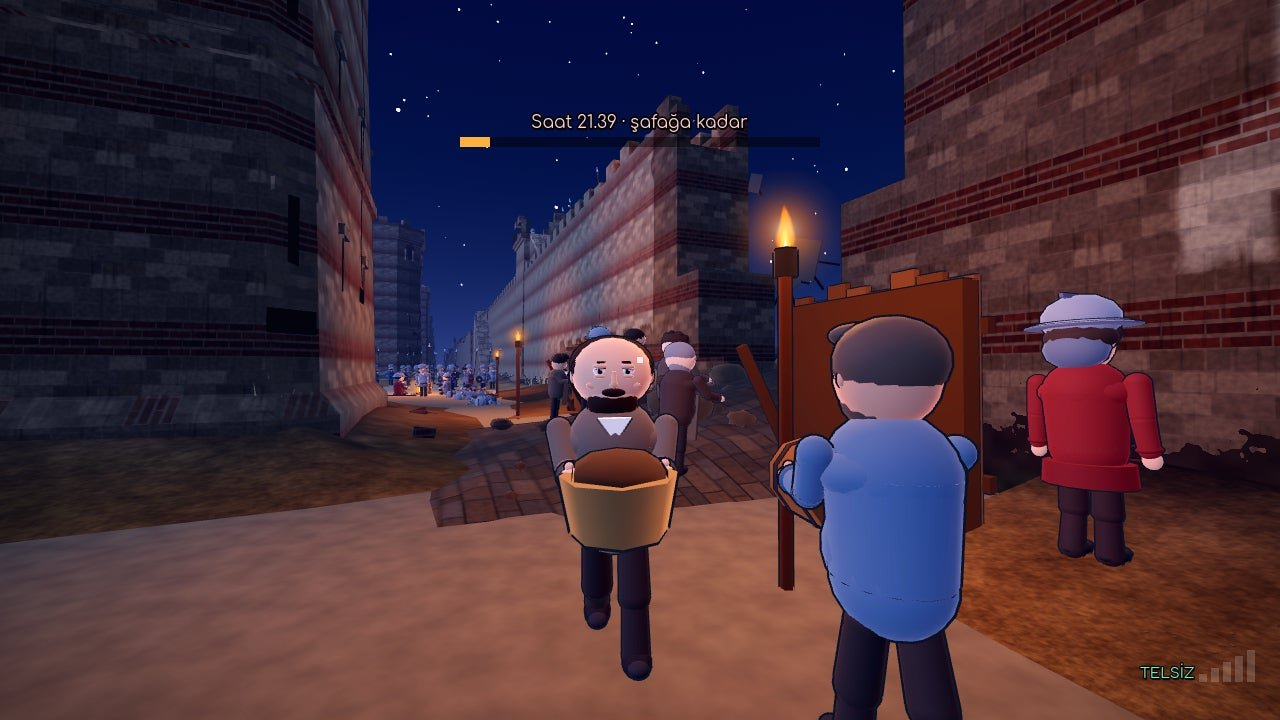
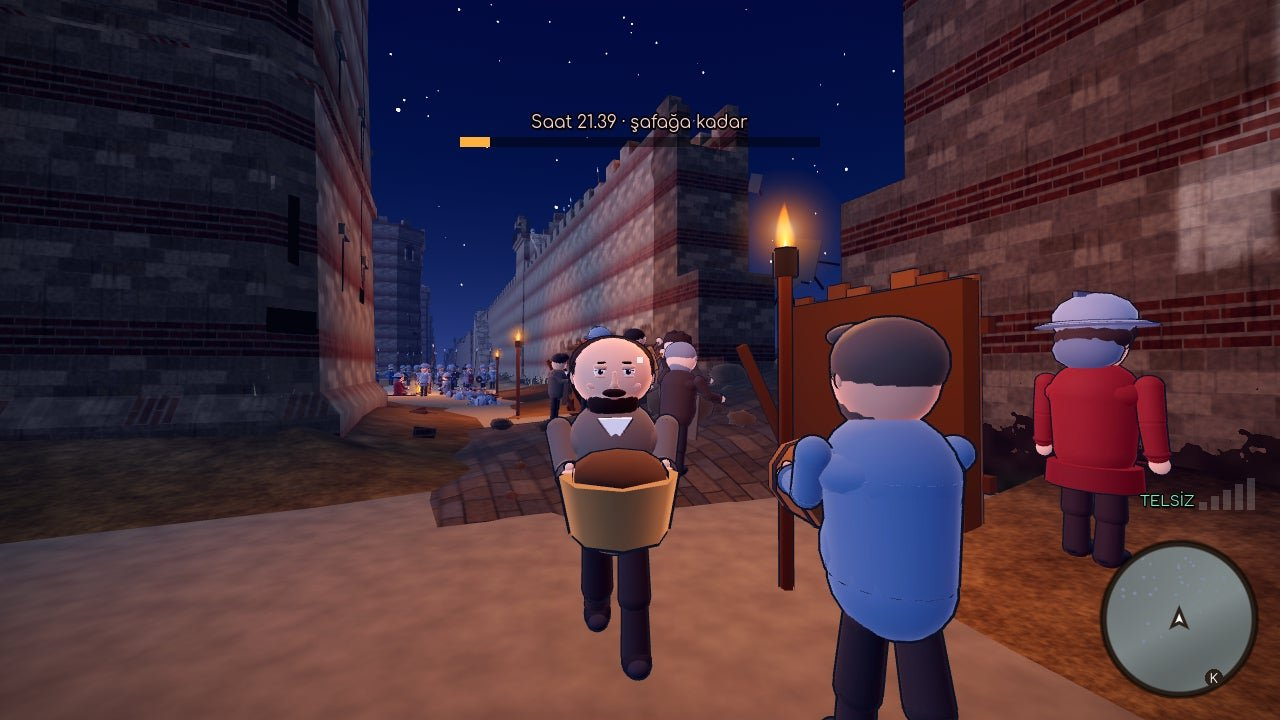
PİLOT-20: 20o kare çiftleri (tam boy; --tamboy diyalog/oynanış karesi seçeneği), rapor taslağı
Claude-Session: https://claude.ai/code/session_01RAjzxN1v1TMsaaMe97eDfD

diff --git a/docs/_kanit_ist2_pilot20/rapor.md b/docs/_kanit_ist2_pilot20/rapor.md
@@ -1,0 +1,53 @@
+# PİLOT-20 — Bölüm 20 ve 20o yeni İstanbul surunda (Mesoteikhion kesimi): doğrulama raporu
+
+> Dal `wip/ist2-pilot-20`. Taban: önceki oturumun kanıtsız kaydı `9f32c394`. Bu oturum: kur, koş, bul, düzelt, kanıtla.
+> Sur görünüşü dosyalarına (`surlar*.gd`, `sur_oturtma_ag.gd`, `sur_gorunus.gd`, `sur_zemin.gd`, `sur_doku.gd`, `sur_kule.gd`,
+> `gorsel_dil.gd`, `ordugah*`) ve `sur_sozlesme_donmus.json`'a dokunulmadı. Denge, hasar, sayaç, replik metni, ses: değişmedi.
+> Ham çıktılar `testler/`, kareler `kare/`. Makine: 4 çekirdek, ekransız testler `--max-fps 20`; kareler xvfb + Mesa llvmpipe
+> (yazılımsal GL, kare başına ≈1,3 sn).
+
+## Özet
+
+| # | Madde | Durum | Kısa |
+|---|---|---|---|
+| 1 | Kurulum + ayrıştırma | **TAMAM** | Godot 4.4.1 resmi, `--import`, `PARSECHECK PASS scripts=354`; Bölüm 20 yeni sette ilk koşu PASS |
+| 2 | Testler (20 ×3 + eski ×1; 20o ×2 + eski ×1) | **TAMAM** (bir madde KISMEN) | ilk tur 66/66 PASS, denetim 0; bulunan 4 kusur düzeltildi; son tur aşağıda. 20o `=wide` düellosu hâlâ eskiden uzun (KISMEN) |
+| 3 | Öteki bölümler | **TAMAM** | 21 bölüm PASS, denetim 0. 26 `=hold_box`'ta seyrek `VISAUDIT overlap` **taban kayıtta da var** (pilot öncesi) |
+| 4 | Sözleşme | **TAMAM** | `SURSOZLESME PASS kalem=13 kesim=8`; `SUROYUN … havada=0 gomuk=0 katida=0`; `WALKTHRU OZET yol=7 tamam=7 takilma=0 dusme=0` |
+| 5 | Gerçek yürüyüş | **TAMAM** | iki sette 10 bacak, takılma 0, düşme 0, etkileşim eksiği 0 |
+| 6 | Kareler | **TAMAM** (Bölüm 20: 10 çift) / bkz. 20o | oyuncunun kamerasından 1280×720 jpg 85 + pafta |
+| 7 | Yöneticinin gördükleri | **KISMEN** | bant ve dikdörtgen yama = sur kesiminin `SurDibiEtek`'i (tur 7'ye istek, teşhis karesiyle); set dekoru yerleşimi düzeltildi |
+| 8 | Bütçe | **TAMAM** | yeni set eski setten HAFİF (çizim −%25…−%45); kurulum ölçüldü |
+| 9 | Rapor | **TAMAM** | bu belge |
+
+## Bu oturumda bulunan ve düzeltilen kusurlar (kök neden → düzeltme → kanıt)
+
+1. **Gözcü canlı değildi** (yeni sette `=hit`/`=lose`'da `WARN_PORTRAIT_STUDIO speaker=SPK_LOOKOUT`, eskide yok). Yeni kesimde gediğe
+   en yakın kurulu dış kule x 35,4 (eskide ±16); bölümün "yakın" aralığı ±32 olduğundan kule gözcüsü uzak siluet (MultiMesh)
+   kalıyor, "Top geliyor!" sahnede yüzü olmayana düşüyordu. → `Garrison._land_walls_sur`: yakın aralık verilmişse gediğe en
+   yakın kurulu dış kulenin gözcüleri canlı (eski anlam). Kanıt `testler/ara_c20_yeni_*_fix*.txt`, son matris.
+2. **Moloz sırtı yanlış yerdeydi** (20o `=wide` düellosu 41/43 sn ↔ eski 13/11). `SurSet.moloz_sirti()` duvarın ortasını veriyordu;
+   eskide sırt dış yüzün 0,2 m DIŞI, bütün barikat aşamalarının ova tarafıydı. Aşama 4'te `GedikOnarim` dış yüze insan boyu kazık
+   çit (çarpışmalı) kurar: azaplar çitin içinde, oyuncu dışında kalıyordu. → sırt dış yüz + 1,4 m (çitin bir kişi payı önü).
+   Sonuç: 20o `=wide` 2. dalga 43 → 22 sn; Bölüm 20 2. dalgası 31 → 17 sn (eski 24). **1. dalga hâlâ 35–41 sn (KISMEN)**:
+   deneyle kanıtlı neden aşama 4'ün dış çiti (çit çarpışması kapalı denemede 11/15 sn, `testler/ara_deneme_citsiz_wide*.txt`;
+   deneme kayda girmedi). Çit sözleşme parçası: bkz. "tur 7'ye istekler".
+3. **Komutan taşıyıcıların arkasında kalıyordu** (`VISAUDIT personhidden key=D20_G_ASSAULT / D20_G_DUEL speaker=SPK_GIUST
+   by=WallFight>Person`, kare koşusunda). Yeni sette depo ve taşıyıcı şeridi gediğin SOLUNDA; Giustiniani de soldaydı, şeride
+   0,7 m. Eskide komutan şeritlerin karşı yanındaydı ("işçilerin ve taşıyıcı şeritlerinin dışında"). → Giustiniani ve Leon
+   gediğin sağında (iç kulenin önü, işçilerle sağ siperin arası); doğuştan uzaklık eskiyle aynı (≈14 m). Engel denetimi 0.
+4. **Okçular gedikten 21,8 m uzaktaydı** (eski 9,8). Gedik düellosu oyuncunun durduğu yerde başlar (azaplar oyuncunun gedik
+   yönünde 3,6 m önünde doğar): ok teslim eden oyuncu için düello peribolosun ortasında açılıyordu. → okçular eskideki yerine
+   (−9; 0; 11), ok sandığı depo yanına, iç surun dibine (−16; 0; 1,2). Hücumdaki ok koşusu eski 31,6 ↔ yeni 30,1 m (yürüyüşte
+   26,7 ↔ 26,2 m).
+5. **Mini harita yeni sette yoktu** (pafta: eskide sağ altta var). Yeni ova `SiegeField.world = false` kurulur; harita alanı
+   (`MapView.GROUP`) yalnız `world` kurulumunda gruba giriyordu. → `SurSetSahne._harita()`: kesimin gerçek dünya yeri
+   (`SurOyun a.xf`) ile IstBaglama'nın yaptığı gibi v2 harita alanı + `MapView.v2` (sahneden çıkınca kapanır).
+6. Küçükler: `Assault` yeni sette tabya ve mancınık yönü ova kaydırmasını hesaba katıyor (bataryayla aynı); `spear_loop`
+   yer değiştirirken komşunun VARACAĞI yeri de dolu sayar (yarış durumu; 26'daki overlap'ı tek başına çözmedi, aşağıda).
+7. Test aracı: `=kare` bacakları ışınlar (yazılımsal GL'de gerçek yürüyüşle saatler sürüyordu; yürüme `=yuru`'da ölçülür),
+   tüfek evresini atlar, karede gece saati gerçekçi (eskiden HUD'da "Saat −9.−31"), onarım karesi taşıyıcıların varış
+   noktasının yanından. Teşhis aracı `tests/_ist/pilot20_teshis.tscn` (sur dışındakileri gizleyip kesimin adlı düğümlerini
+   tek tek gizler).
+
+<!-- DEVAMI: test tabloları, mesafe, bağdaştırıcı, kareler, bütçe, replikler, kılavuz, istekler -->
